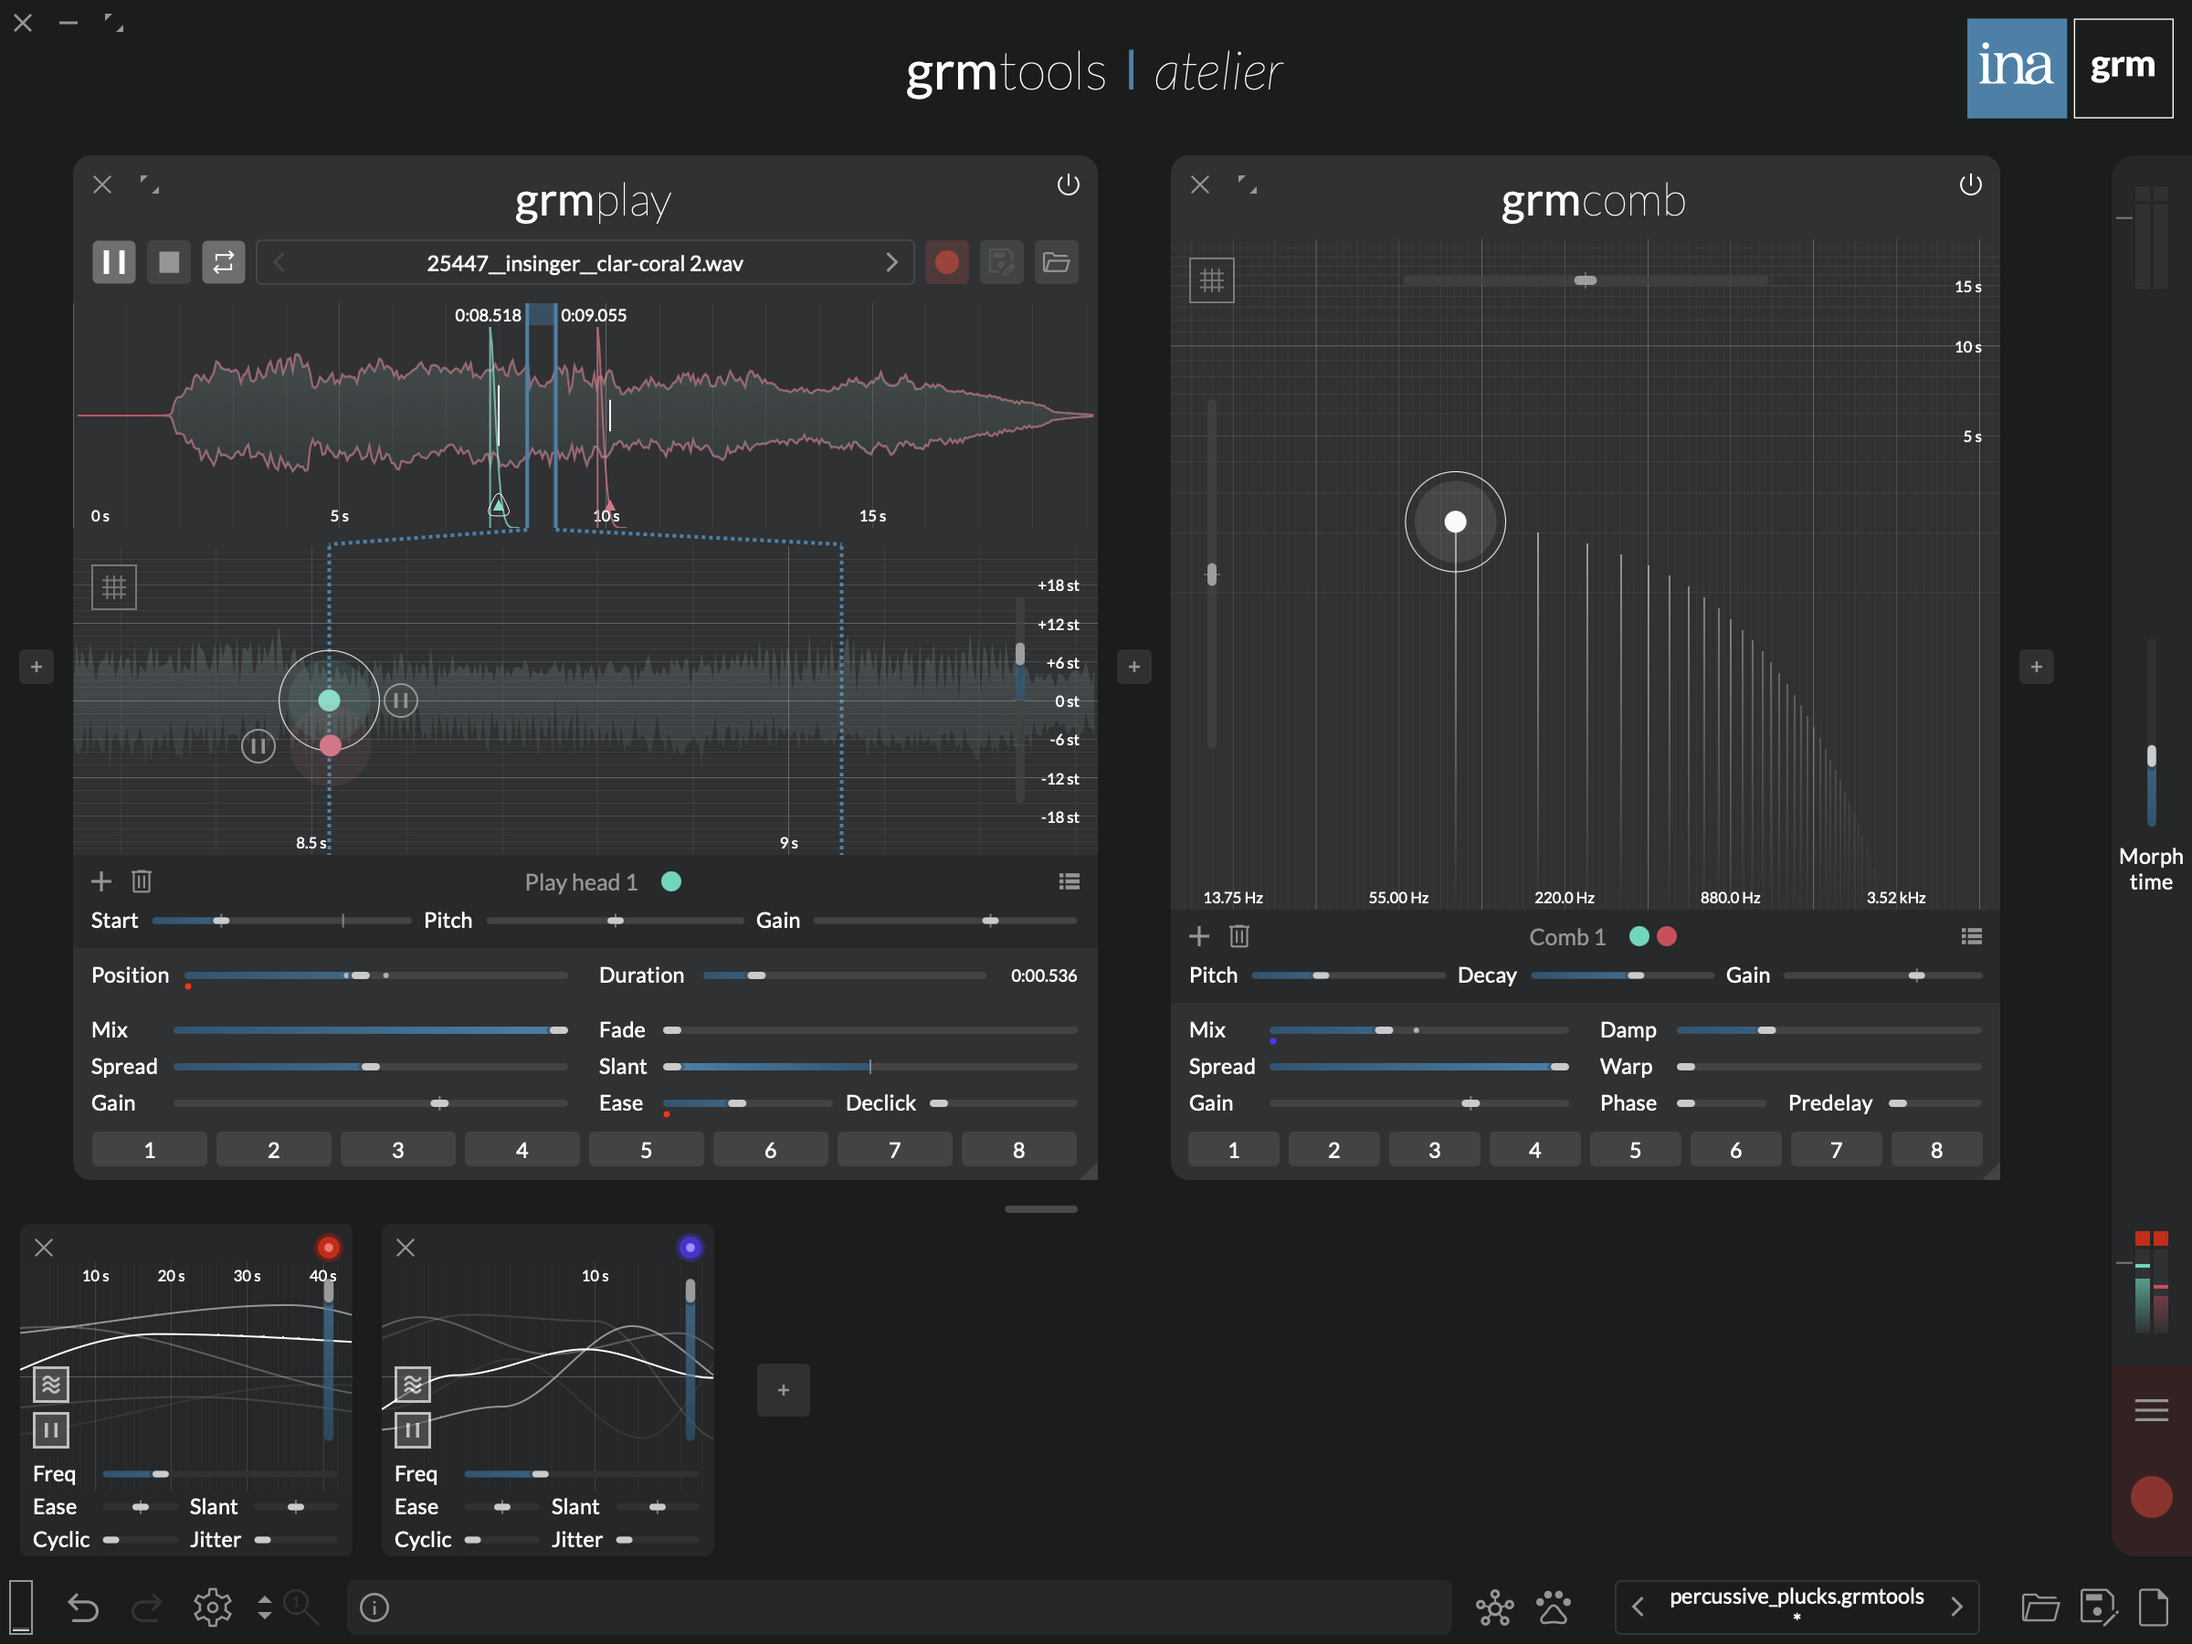
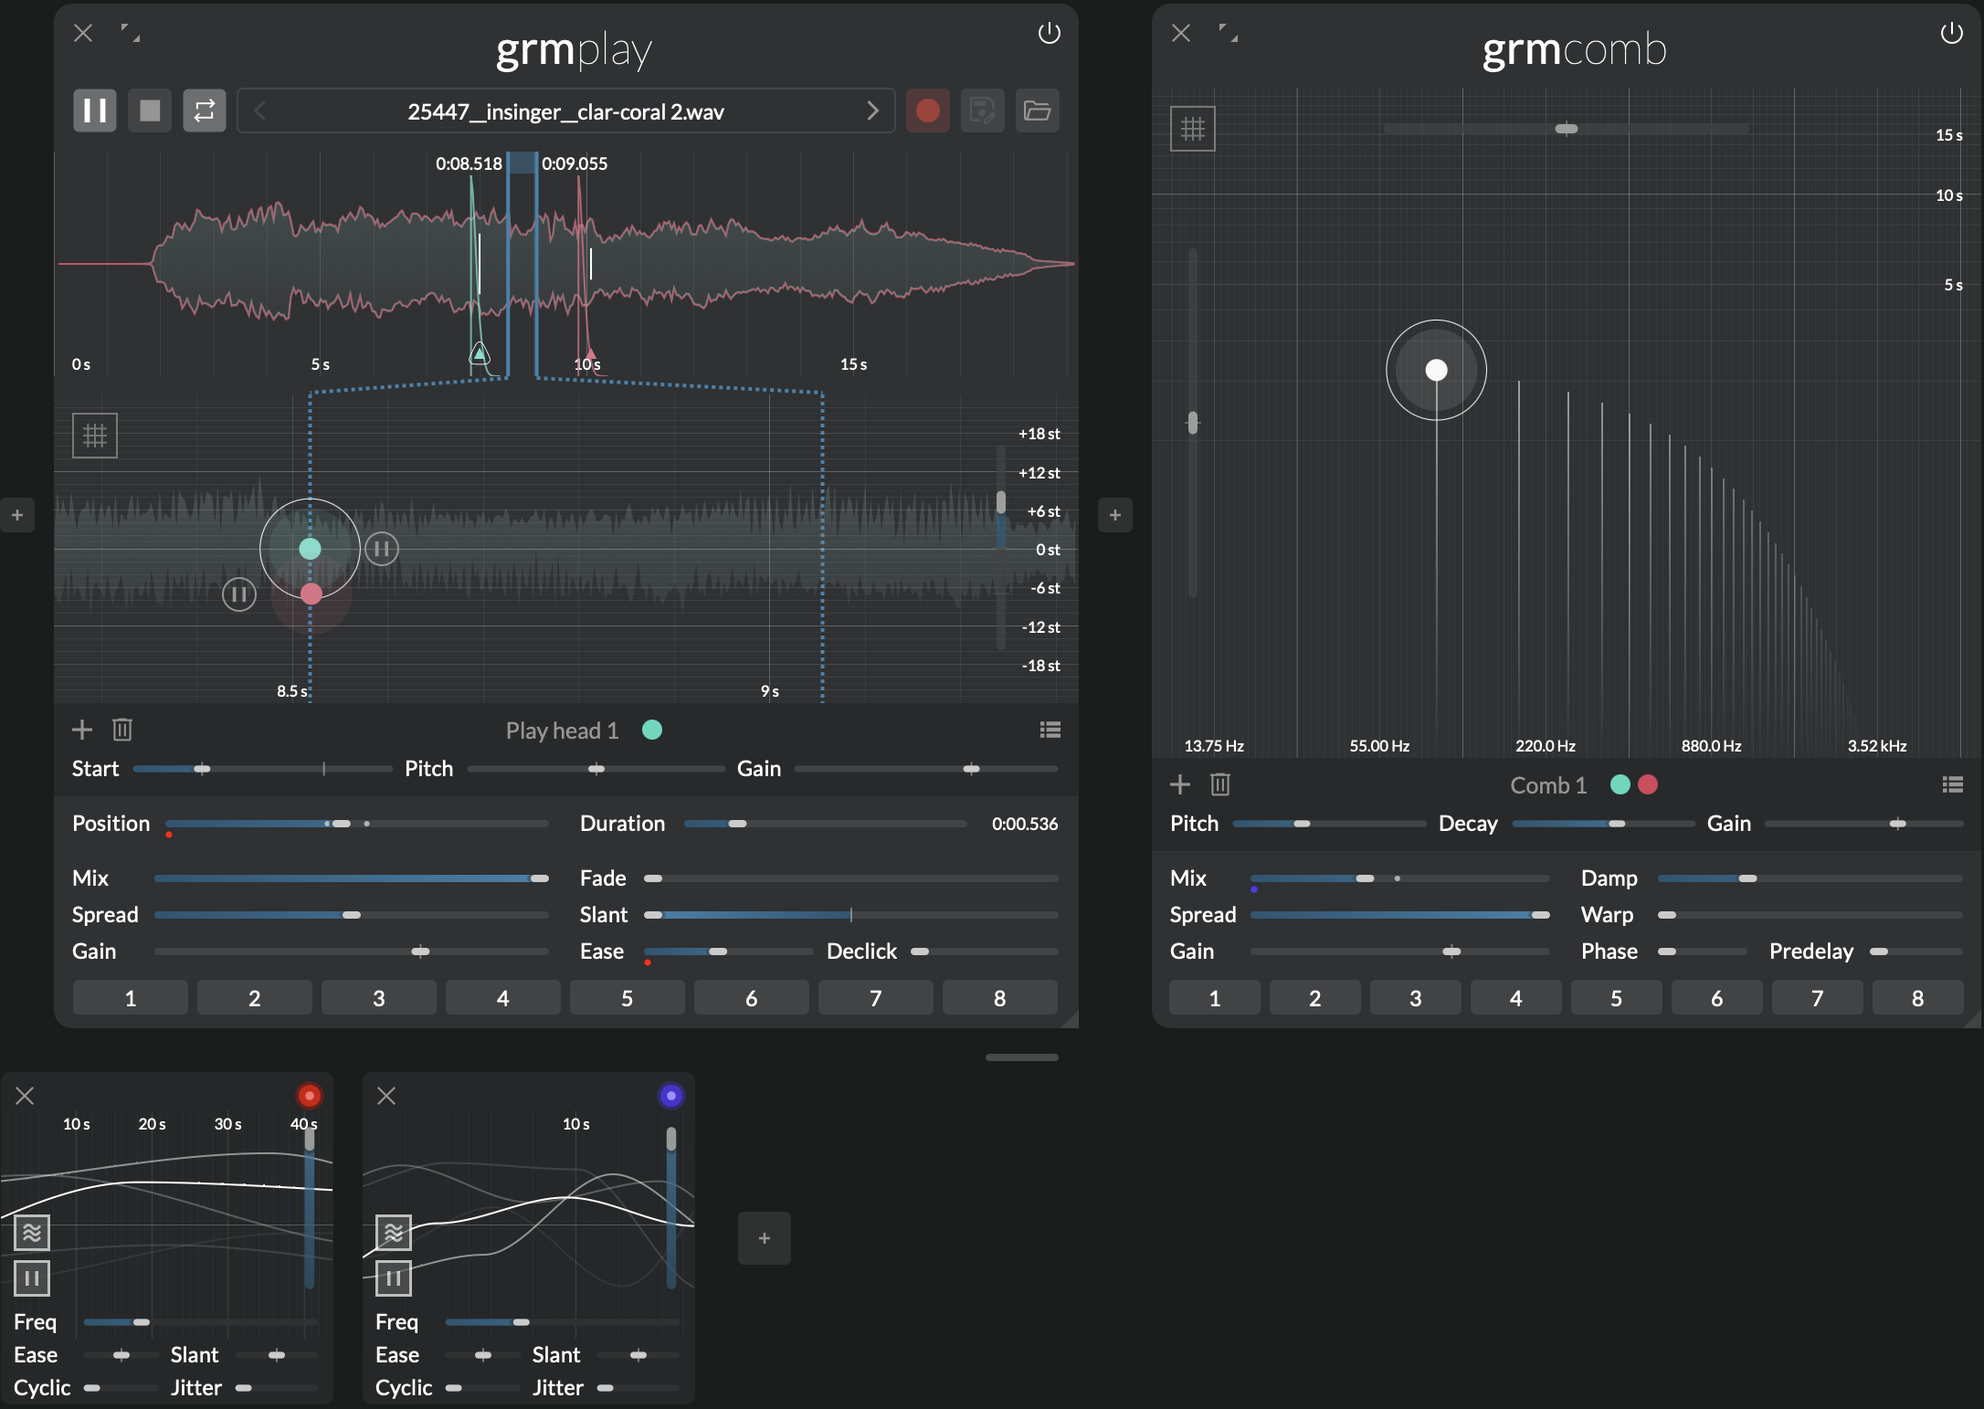
all images: crop

diff --git a/docs/modules/comb.md b/docs/modules/comb.md
@@ -87,7 +87,7 @@ The following parameters have as many independently-modulatable instances as the
 
 ### Noise bursts
 
-![A screenshot showing Gen agitated by Peak to create impulses for comb](../assets/images/modules/comb/comb-tips-noise-bursts-large.png)
+![A screenshot showing Gen agitated by Peak to create impulses for comb](../assets/images/modules/comb/comb-tips-noise-bursts.png)
 
 _Comb_ shines with transient-rich input material. Using [Gen](gen.md) and [Peak](peak.md), make
 short bursts of noise. Follow with a single comb filter at a relatively high **Decay** (>1s); put
@@ -96,7 +96,7 @@ of plucked strings, glassy tone, bell sounds etc.
 
 ### Strummed chords
 
-![A screenshot showing modulation of Comb's Predelay](../assets/images/modules/comb/comb-tips-strummed-chord-large.png)
+![A screenshot showing modulation of Comb's Predelay](../assets/images/modules/comb/comb-tips-strummed-chord.png)
 
 Building on the previous tip, add more comb filters at different frequencies to make a chord. Now,
 put **Predelay** around 50ms, and modulate it slightly with a slow [_Agitation_](agitation.md). Every
@@ -105,7 +105,7 @@ were not plucked all at the same time.
 
 ### Infinite decay
 
-![A screenshot showing Gen generating impulses using square waves fed into Comb with high decay](../assets/images/modules/comb/comb-tips-infinite-decay-large.png)
+![A screenshot showing Gen generating impulses using square waves fed into Comb with high decay](../assets/images/modules/comb/comb-tips-infinite-decay.png)
 
 When **Decay** is set to more than 20 sec and **Warp** is 0%, decay is _infinite_: any short-lived
 input will resonate (almost) forever. Fed with an initial short signal, this can be useful to
@@ -117,7 +117,7 @@ generate held tones, drones or textures.
 
 ### Crude reverb
 
-![A screenshot showing Play feeding into Comb and Agitation agitating Comb's transposition](../assets/images/modules/comb/comb-tips-reverb-large.png)
+![A screenshot showing Play feeding into Comb and Agitation agitating Comb's transposition](../assets/images/modules/comb/comb-tips-reverb.png)
 
 Early digital reverberation units (now refered to as [Schröder
 reverbs](https://ieeexplore.ieee.org/document/6161610)) worked by simply feeding the input signal
@@ -129,7 +129,7 @@ attenuating some the metallic resoance.
 
 ### At time rate
 
-![A screenshot showing Gen feeding into Comb to produce delay effects](../assets/images/modules/comb/comb-tips-time-rate-large.png)
+![A screenshot showing Gen feeding into Comb to produce delay effects](../assets/images/modules/comb/comb-tips-time-rate.png)
 
 A comb filter is a very short delay... but _Comb_ also supports longer delay! These will be heard as
 normal repetitions, so you can use _Comb_ as (a set of) regular delays, with some twists. Add a
